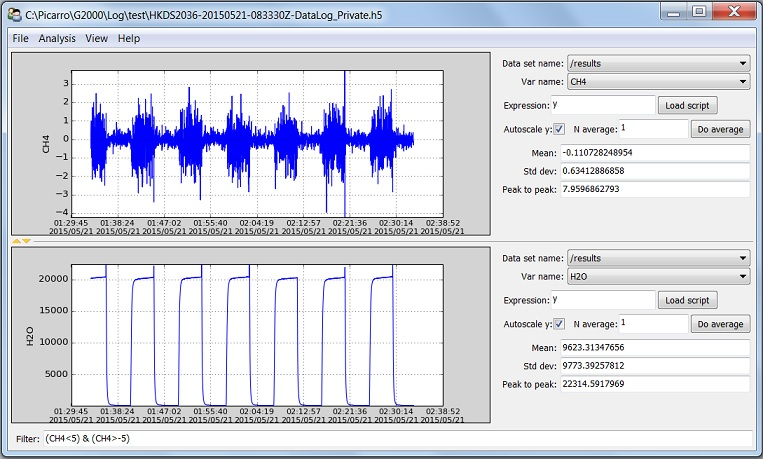
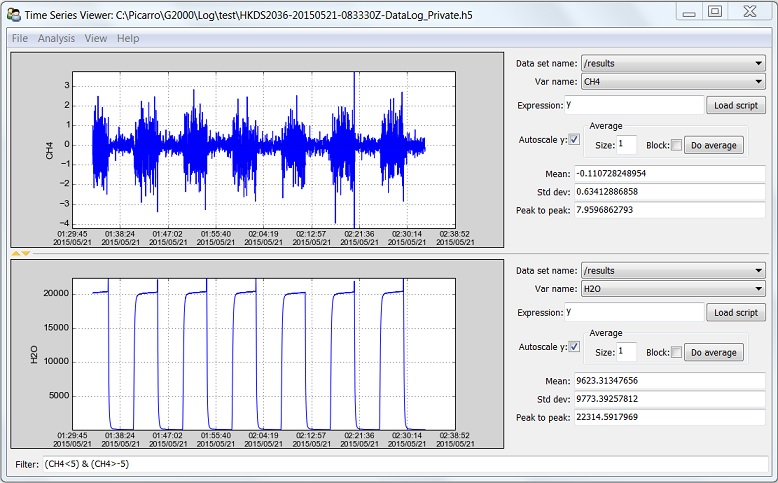
DatViewer 3.0.2:
This version fixes the bug in exporting Allan Std Dev data. Also, after block averaging is performed, statistics will be automatically calculated on averaged data.

Changed region(s): [[0.0, 0.0, 1.0, 1.0]]

diff --git a/src/main/python/AddOns/DatViewer/Manual/user_guide.html b/src/main/python/AddOns/DatViewer/Manual/user_guide.html
@@ -184,7 +184,7 @@ is displayed.</p>
 <div class="section" id="average">
 <span id="id4"></span><h3>Average<a class="headerlink" href="#average" title="Permalink to this headline">¶</a></h3>
 <p>If <em>Block</em> is checked, block average is calculated when <em>Do average</em> button is clicked. Otherwise moving average is calculated.</p>
-<p>For block average, <em>N average</em> specifies block size in unit of minute. For moving average, <em>N average</em> specifies subset size in unit of data points.</p>
+<p>For block average, <em>Size</em> specifies block size in unit of minute. For moving average, <em>Size</em> specifies subset size in unit of data points.</p>
 <div class="admonition note">
 <p class="first admonition-title">Note</p>
 <p class="last">Averaging is performed after application of <a class="reference internal" href="#filter"><span>Filter</span></a> and <a class="reference internal" href="#expression"><span>Expression</span></a> fields.</p>
@@ -294,7 +294,7 @@ For example, &#8220;12CO2&#8221; needs to be called as &#8220;dat12CO2&#8221; in
       </ul>
     </div>
     <div class="footer" role="contentinfo">
-        &copy; Copyright 2005 - 2015, Picarro Inc..
+        &copy; Copyright 2005 - 2016, Picarro Inc..
       Created using <a href="http://sphinx-doc.org/">Sphinx</a> 1.3.1.
     </div>
   </body>

diff --git a/src/main/python/AddOns/DatViewer/Manual/canvas.html b/src/main/python/AddOns/DatViewer/Manual/canvas.html
@@ -163,7 +163,7 @@ See <a class="reference internal" href="getting_started.html#concatenate-files-t
       </ul>
     </div>
     <div class="footer" role="contentinfo">
-        &copy; Copyright 2005 - 2015, Picarro Inc..
+        &copy; Copyright 2005 - 2016, Picarro Inc..
       Created using <a href="http://sphinx-doc.org/">Sphinx</a> 1.3.1.
     </div>
   </body>

diff --git a/src/main/python/AddOns/DatViewer/Manual/define_time_range.html b/src/main/python/AddOns/DatViewer/Manual/define_time_range.html
@@ -146,7 +146,7 @@ DatViewer expands the specified time range so the resulting dataset normally has
       </ul>
     </div>
     <div class="footer" role="contentinfo">
-        &copy; Copyright 2005 - 2015, Picarro Inc..
+        &copy; Copyright 2005 - 2016, Picarro Inc..
       Created using <a href="http://sphinx-doc.org/">Sphinx</a> 1.3.1.
     </div>
   </body>

diff --git a/src/main/python/AddOns/DatViewer/Manual/getting_started.html b/src/main/python/AddOns/DatViewer/Manual/getting_started.html
@@ -208,7 +208,7 @@ to be named with creation time (just like data files in Private Log). This way D
       </ul>
     </div>
     <div class="footer" role="contentinfo">
-        &copy; Copyright 2005 - 2015, Picarro Inc..
+        &copy; Copyright 2005 - 2016, Picarro Inc..
       Created using <a href="http://sphinx-doc.org/">Sphinx</a> 1.3.1.
     </div>
   </body>

diff --git a/src/main/python/AddOns/DatViewer/Manual/index.html b/src/main/python/AddOns/DatViewer/Manual/index.html
@@ -132,7 +132,7 @@ and to also concatenate and convert their formats.</p>
       </ul>
     </div>
     <div class="footer" role="contentinfo">
-        &copy; Copyright 2005 - 2015, Picarro Inc..
+        &copy; Copyright 2005 - 2016, Picarro Inc..
       Created using <a href="http://sphinx-doc.org/">Sphinx</a> 1.3.1.
     </div>
   </body>

diff --git a/src/main/python/AddOns/DatViewer/Manual/time_series_plot_menu.html b/src/main/python/AddOns/DatViewer/Manual/time_series_plot_menu.html
@@ -188,7 +188,7 @@ and then converted to desired unit.</p>
       </ul>
     </div>
     <div class="footer" role="contentinfo">
-        &copy; Copyright 2005 - 2015, Picarro Inc..
+        &copy; Copyright 2005 - 2016, Picarro Inc..
       Created using <a href="http://sphinx-doc.org/">Sphinx</a> 1.3.1.
     </div>
   </body>

diff --git a/src/main/python/AddOns/DatViewer/Manual/fitting.html b/src/main/python/AddOns/DatViewer/Manual/fitting.html
@@ -133,7 +133,7 @@
       </ul>
     </div>
     <div class="footer" role="contentinfo">
-        &copy; Copyright 2005 - 2015, Picarro Inc..
+        &copy; Copyright 2005 - 2016, Picarro Inc..
       Created using <a href="http://sphinx-doc.org/">Sphinx</a> 1.3.1.
     </div>
   </body>

diff --git a/src/main/python/AddOns/DatViewer/Manual/genindex.html b/src/main/python/AddOns/DatViewer/Manual/genindex.html
@@ -101,7 +101,7 @@
       </ul>
     </div>
     <div class="footer" role="contentinfo">
-        &copy; Copyright 2005 - 2015, Picarro Inc..
+        &copy; Copyright 2005 - 2016, Picarro Inc..
       Created using <a href="http://sphinx-doc.org/">Sphinx</a> 1.3.1.
     </div>
   </body>

diff --git a/src/main/python/AddOns/DatViewer/Manual/search.html b/src/main/python/AddOns/DatViewer/Manual/search.html
@@ -111,7 +111,7 @@
       </ul>
     </div>
     <div class="footer" role="contentinfo">
-        &copy; Copyright 2005 - 2015, Picarro Inc..
+        &copy; Copyright 2005 - 2016, Picarro Inc..
       Created using <a href="http://sphinx-doc.org/">Sphinx</a> 1.3.1.
     </div>
   </body>

diff --git a/src/main/python/AddOns/DatViewer/DatViewer.py b/src/main/python/AddOns/DatViewer/DatViewer.py
@@ -63,7 +63,7 @@ from Analysis import *
 
 FULLAPPNAME = "Picarro Data File Viewer"
 APPNAME = "DatViewer"
-APPVERSION = "3.0.1"
+APPVERSION = "3.0.2"
 
 Program_Path = os.path.split(sys.argv[0])[0]
 # cursors
@@ -692,7 +692,10 @@ class FigureInteraction(object):
         if self.image_popup_menu is None:
             menu = wx.Menu()
             self._append_menu_item(menu, None, "Export Image", self.saveImage)
-            self._append_menu_item(menu, None, "Export Data in Current View", self.exportData)
+            if "Allan Std Dev" in self.fig.viewer.traits_view.title:
+                self._append_menu_item(menu, None, "Export Data", self.exportAllanStdDev)
+            else:
+                self._append_menu_item(menu, None, "Export Data in Current View", self.exportData)
             if self.fig.displayMode != "XY":
                 self._append_menu_item(menu, None, "Export All Data in Current Time Range", self.exportDataAll)
             menu.AppendSeparator()
@@ -1059,6 +1062,33 @@ class FigureInteraction(object):
             self.fig.savefig(fname)
         
     @checkLock
+    def exportAllanStdDev(self, event): 
+        ax = self.fig.gca()
+        lines = ax.get_lines()
+        heading = []
+        dataset = []
+        format = []
+        for i in range(0, len(lines), 2):
+            label = lines[i].get_label()
+            xdata, ydata = lines[i].get_data()
+            dataset.extend([xdata, ydata])
+            heading.extend([("Time_" + label, type(xdata[0])), (label, type(ydata[0]))])
+            format.extend(["%-40s", "%-40s"]) 
+        data = zip(*dataset)
+        fd = wx.FileDialog(None, "Export data filename",
+                           style=wx.FD_SAVE | wx.FD_OVERWRITE_PROMPT,
+                           defaultFile=self.getDefaultName(),
+                           defaultDir="",
+                           wildcard="CSV file (*.csv)|*.csv")
+        if fd.ShowModal() == wx.ID_OK:
+            fname = fd.GetPath()
+            with open(fname, "w") as f:
+                r = range(len(format))
+                f.write(",".join(format[i] % heading[i][0] for i in r) + "\n")
+                for row in data:
+                    f.write(",".join(format[i] % row[i] for i in r) + "\n")
+        
+    @checkLock
     def exportData(self, event):
         ax = self.fig.gca()
         xdata, ydata = ax.get_lines()[0].get_data()
@@ -1078,7 +1108,7 @@ class FigureInteraction(object):
         elif self.fig.displayMode == 'Hour':
             heading = [('Hour', float32), (ylabel, type(ydata[0]))]
             format = "%-40d,%-40s\n"
-        elif self.fig.displayMode == 'XY':
+        elif self.fig.displayMode == "XY":
             heading = [(xlabel, type(xdata[0])), (ylabel, type(ydata[0]))]
             format = "%-40s,%-40s\n"
         data = zip(xdata, ydata)
@@ -1478,7 +1508,7 @@ class XyViewerHandler(Handler):
         obj = info.object
         obj.getSelection()
         sy = getStatistics(obj.yData)
-        obj.information = "y Min = %s\ny Max = %s\nPeak to peak = %s\n" % (sy.min, sy.max, sy.ptp)
+        obj.information = "Y Min = %s\nY Max = %s\nPeak to peak = %s\n" % (sy.min, sy.max, sy.ptp)
         obj.information += "Average = %s\nStd Dev = %s" % (sy.mean, sy.std)
         
     def onScreenShot(self, info):
@@ -1534,7 +1564,7 @@ class XyViewer(HasTraits):
         titleList = []
         for timeSeriesWindow in self.parent.parent.infoSet:
             for xyPlot in timeSeriesWindow.object.infoSet:
-                titleList.append(xyPlot.object.traits_view.title)
+                titleList.append(xyPlot.object.traits_view.title.split(":")[0])
         title = "XYPlot"
         i = 2
         while title in titleList:
@@ -1826,6 +1856,9 @@ class DatViewer(HasTraits):
                     viewer = self.PlotXY(fTime, fData, xLabel=self.plot.plot2dFigure.displayMode, yLabel=self.varName, enableAnalysis=True)
                     viewer.plot.axes.set_title("Block Average: size = %s minutes" % self.nAverage, fontdict = {'size': 18, 'weight': 'bold'})
                     viewer.plot.redraw()
+                    sy = getStatistics(fData)
+                    viewer.information = "Data number = %d\nY Min = %s\nY Max = %s\nPeak to peak = %s\n" % (len(fData), sy.min, sy.max, sy.ptp)
+                    viewer.information += "Average = %s\nStd Dev = %s" % (sy.mean, sy.std)
                 else:
                     xData = self.getXData()
                     values = self.runScript(self.expression)
@@ -1851,7 +1884,7 @@ class DatViewer(HasTraits):
         self.expression = scriptFile
         self.updatePlot()
         self.updateFigure = True
-        
+    
 class CorrelationPlotSelector(HasTraits):
     nViewers = CInt(3)
     instruction = CStr("Select 2 variables and make correlation plot.")
@@ -2078,14 +2111,14 @@ class SeriesWindowHandler(Handler):
                     raise
         if len(plotVariables) > 0:
             viewer = XyViewer(parent=obj, dataFile=obj.dataFile, plotVariables=plotVariables)
-            viewer.set(xLabel="Time (s)", yLabel='Allan Std Dev', xScale='log', yScale='log', 
+            viewer.set(xLabel="Second", yLabel='Allan Std Dev', xScale='log', yScale='log', 
                     xMin=1, xMax=xMax, yMin=yMin, yMax=yMax)
             viewer.update()
             viewer.plot.axes.grid(which='both')
             for i in range(0, len(plotVariables)/3, 2):
                 viewer.dataHandles[i].set_label(legends[i/2])
             viewer.plot.axes.legend(loc = 3) # location: lower left
-            viewer.plot.axes.set_title("Allen Standard Deviation Plot", fontdict = {'size': 18, 'weight': 'bold'})
+            viewer.plot.axes.set_title("Allan Standard Deviation Plot", fontdict = {'size': 18, 'weight': 'bold'})
             title = viewer.traits_view.title+": Allan Std Dev"
             viewer.traits_view.set(title=title)
             viewer.edit_traits(view=viewer.traits_view)
@@ -2162,12 +2195,14 @@ class SeriesWindow(Window):
                     VGroup(
                         Item("dataSetName", object="h%d" % i, editor=EnumEditor(name="dataSetNameList"), width=w),
                         Item("varName", object="h%d" % i, editor=EnumEditor(name="varNameList"), width=w),
-                        HGroup(Item("expression", object="h%d" % i, width=w),
+                        HGroup(Item("expression", object="h%d" % i, width=-200),
                                Item("loadScript", object="h%d" % i, show_label=False, width=10)),
                         HGroup(Item("autoscaleY", object="h%d" % i), 
-                               Item("nAverage", object="h%d" % i, width=-30),
-                               Item("blockAverage", label="Block", object="h%d" % i),
-                               Item("doAverage", object="h%d" % i, show_label=False)),
+                               HGroup(
+                                   Item("nAverage", label="Size", object="h%d" % i, width=-30),
+                                   Item("blockAverage", label="Block", object="h%d" % i),
+                                   Item("doAverage", object="h%d" % i, show_label=False),
+                                   show_border=True, label="Average")),
                         Item("mean", object="h%d" % i, width=w),
                         Item("stdDev", object="h%d" % i, width=w),
                         Item("peakToPeak", object="h%d" % i, width=w),

diff --git a/src/main/python/AddOns/DatViewer/Manual raw files/user_guide.rst b/src/main/python/AddOns/DatViewer/Manual raw files/user_guide.rst
@@ -145,7 +145,7 @@ Average
 ----------------------------
 If *Block* is checked, block average is calculated when *Do average* button is clicked. Otherwise moving average is calculated.
 
-For block average, *N average* specifies block size in unit of minute. For moving average, *N average* specifies subset size in unit of data points.
+For block average, *Size* specifies block size in unit of minute. For moving average, *Size* specifies subset size in unit of data points.
 
 .. note:: Averaging is performed after application of :ref:`Filter` and :ref:`Expression` fields.
 
